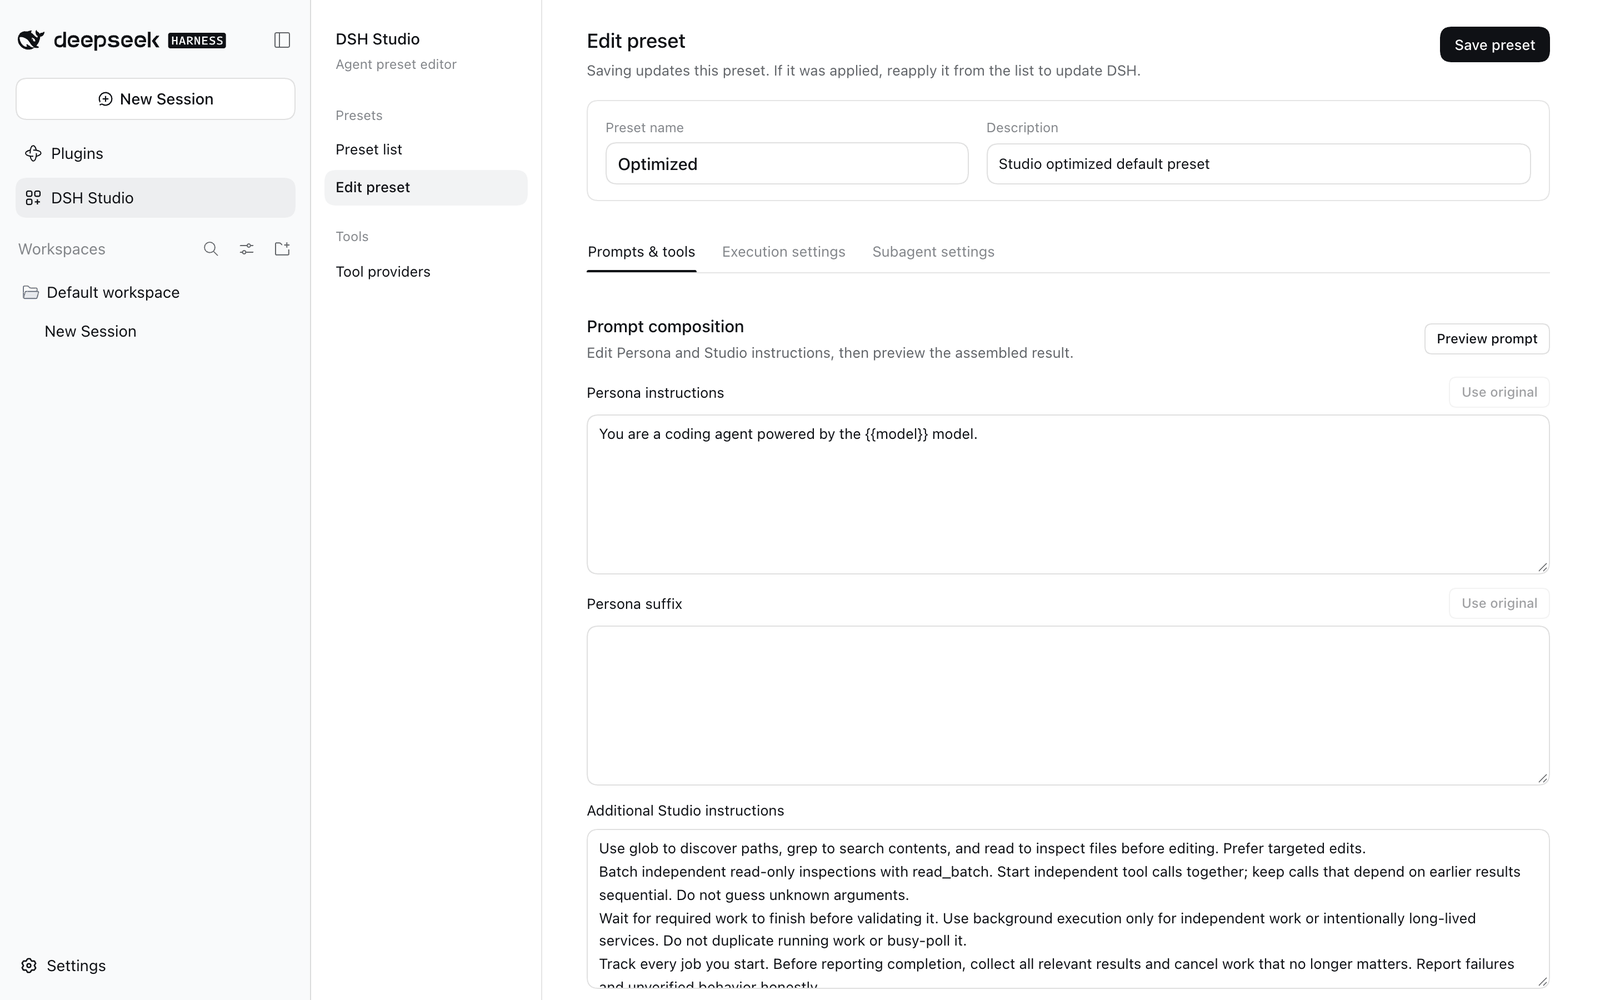
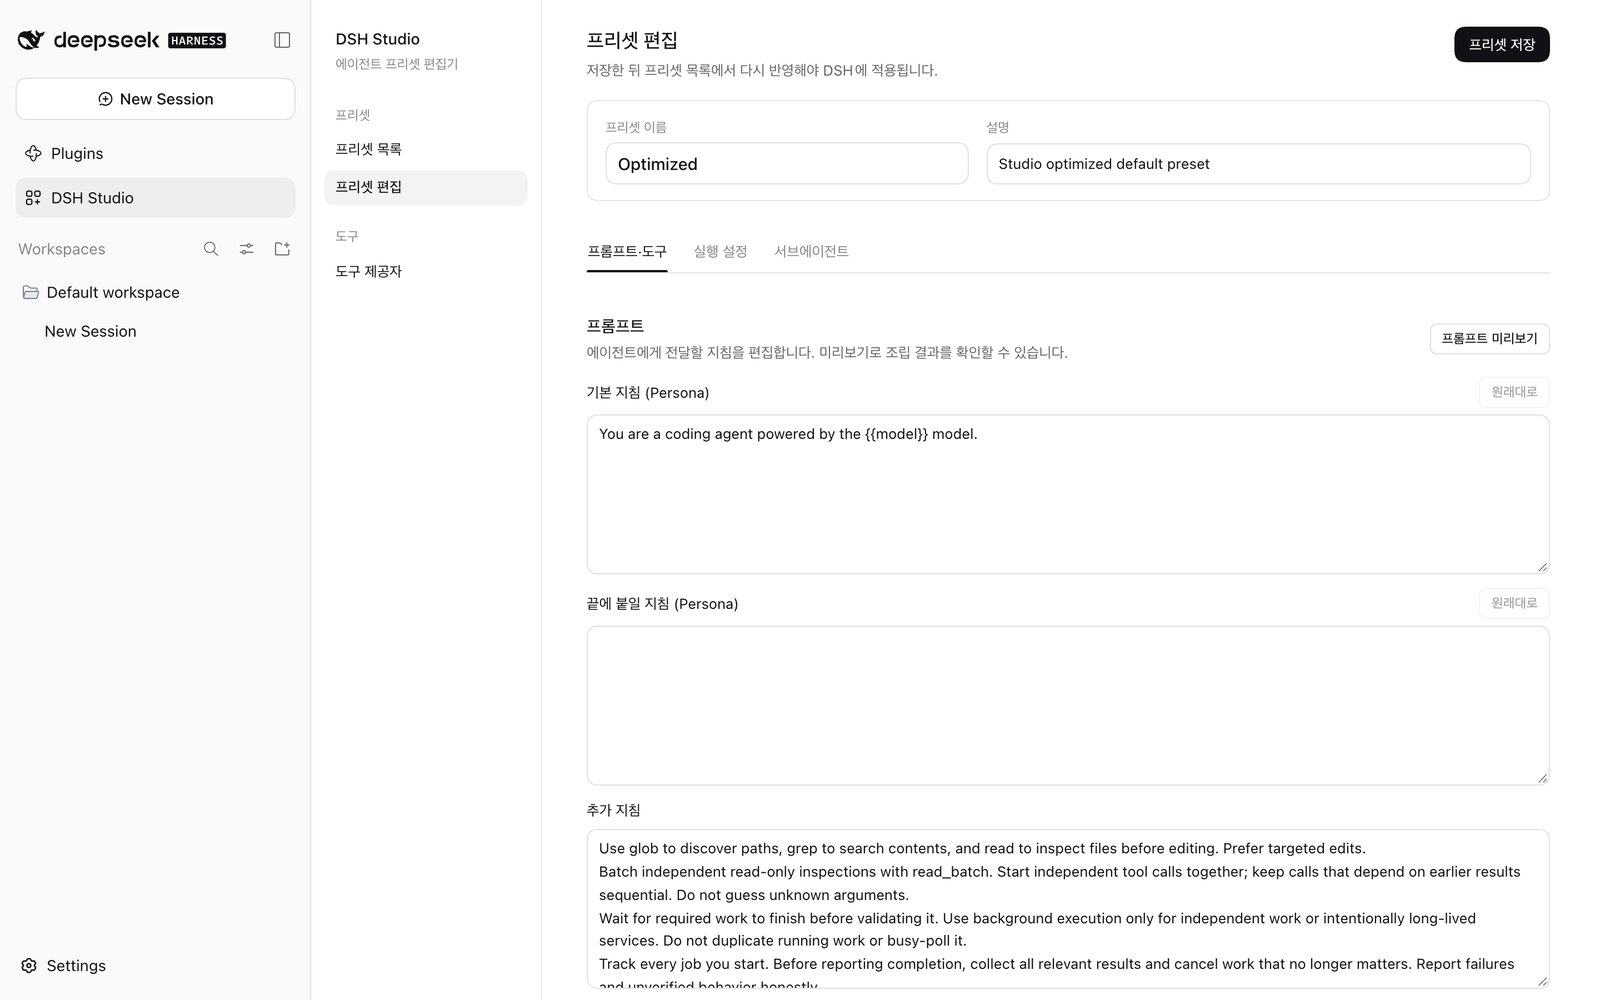
docs(studio): Korean user guide with Korean screenshots; state the benchmark baseline as stock standard

diff --git a/studio/release/docs/guide.ko.md b/studio/release/docs/guide.ko.md
@@ -1,0 +1,141 @@
+# DSH Studio 사용 가이드
+
+DSH Studio는 DeepSeek Harness 웹 GUI 안에서 **에이전트 프리셋**을 만드는 화면입니다. 에이전트가 볼 도구, 처음 받는 지침, 플러그인 설정, 작업을 맡길 서브에이전트 역할을 한곳에서 정하고, DSH에 반영하면 새 세션에서 그 프리셋을 고를 수 있습니다.
+
+- [설치하고 열기](#설치하고-열기)
+- [프리셋 목록](#프리셋-목록)
+- [프리셋 편집](#프리셋-편집)
+  - [프롬프트·도구](#프롬프트도구)
+  - [프롬프트 미리보기](#프롬프트-미리보기)
+  - [실행 설정](#실행-설정)
+  - [서브에이전트](#서브에이전트)
+- [DSH에 반영하기](#dsh에-반영하기)
+- [도구 제공자](#도구-제공자)
+- [데이터 저장 위치](#데이터-저장-위치)
+- [문제 해결](#문제-해결)
+
+## 설치하고 열기
+
+DSH `0.2.0-rc.2` 또는 `0.2.1-alpha.2`가 필요합니다.
+
+```sh
+dsh plugin --profile web add @matamt-dbg/dsh-studio
+```
+
+웹 GUI를 다시 시작한 뒤 사이드바에서 **DSH Studio**를 선택합니다.
+
+## 프리셋 목록
+
+![프리셋 목록](images/preset-list.png)
+
+Studio가 관리하는 프리셋이 카드로 표시됩니다.
+
+| 프리셋 | 설명 |
+|---|---|
+| **Studio Master** | Studio에서 고를 수 있는 모든 도구를 담은 읽기 전용 기준 프리셋입니다. 어떤 도구가 있는지 확인할 때 봅니다. |
+| **Optimized** | 기본 제공 프리셋입니다. 자주 쓰는 도구 22개, 다듬은 도구 설명과 실행 기본값, 짧은 작업 지침이 들어 있습니다. 편집할 수 있지만 삭제할 수는 없습니다. |
+| 내 프리셋 | 직접 만들거나 복사한 프리셋입니다. |
+
+카드에는 상태(**반영됨**, **다시 반영 필요**, **반영 안 됨**)와 도구·서브에이전트 역할 수가 표시됩니다.
+
+- **편집**: 프리셋을 편집 화면에서 엽니다.
+- **복사**: 이 프리셋 내용을 채운 새 프리셋을 엽니다. 저장하기 전까지는 목록에 생기지 않으며, 복사본을 다시 복사할 수도 있습니다.
+- **삭제**: Studio와 DSH에서 프리셋을 지웁니다. 기존 대화는 남습니다.
+- **DSH에 반영 / DSH에 다시 반영**: 저장한 프리셋을 DSH에 등록합니다. 옆의 화살표 메뉴에 **반영 해제**가 있습니다.
+
+여러 프리셋에 같은 주의사항이 있으면 카드마다 반복하지 않고 목록 위에 한 번만 표시합니다.
+
+## 프리셋 편집
+
+왼쪽 메뉴의 **프리셋 만들기**를 누르거나, 카드에서 **편집** 또는 **복사**를 누릅니다. 이름과 한 줄 설명(선택)을 적고 세 탭을 차례로 설정한 뒤 **프리셋 저장**을 누릅니다. 저장만으로는 DSH가 바뀌지 않으며, 목록에서 반영해야 적용됩니다.
+
+### 프롬프트·도구
+
+![프롬프트 구성](images/prompts.png)
+
+**프롬프트**에서는 에이전트가 처음 받는 지침을 정합니다.
+
+- **기본 지침 (Persona)**: 시스템 프롬프트 맨 앞의 정체성 문구입니다. `{{model}}`은 세션의 모델 이름으로 바뀝니다. **원래대로**를 누르면 기본값으로 돌아갑니다.
+- **끝에 붙일 지침 (Persona)**: persona 뒤에 덧붙는 문구입니다.
+- **추가 지침**: 직접 정하는 작업 규칙입니다. 시스템 프롬프트의 마지막 섹션으로 들어갑니다.
+
+![도구 선택](images/tools.png)
+
+**도구**에서는 에이전트가 호출할 수 있는 도구를 고릅니다.
+
+- 행의 체크를 켜면 포함됩니다. 켜고 꺼도 행 위치는 바뀌지 않습니다.
+- **기본 프리셋에서 한 번에 추가**는 DSH의 `standard`, `ptc`, `minimal`, `creator (cordis)` 프리셋 도구를 한 번에 넣거나 뺍니다. 그 묶음의 도구가 모두 선택되어 있으면 버튼이 눌린 상태로 보입니다.
+- 이름·설명·인자로 검색하고 **전체**, **선택됨**, **변경됨**으로 걸러 볼 수 있습니다.
+
+![도구 설정](images/tool-details.png)
+
+선택한 도구의 **설정**에서는 모델이 읽는 설명만 바꿉니다. 도구의 동작은 바뀌지 않습니다.
+
+- **도구 설명**: 모델에 전달되는 도구 전체 설명입니다.
+- **사용 지침**: 시스템 프롬프트에 들어가는 이 도구의 사용 규칙입니다. 같은 섹션을 쓰는 도구는 이 지침을 함께 씁니다.
+- **인자 설명**: 설명 문구만 바꿀 수 있습니다. 이름, 타입, 필수 여부는 그대로입니다.
+
+바꾼 도구에는 **변경됨** 표시가 붙고, 이 프리셋에만 적용됩니다.
+
+### 프롬프트 미리보기
+
+![프롬프트 미리보기](images/prompt-preview.png)
+
+**프롬프트 미리보기**는 DSH가 이 프리셋으로 조립할 시스템 프롬프트를 그대로 보여줍니다. 에이전트를 시작하거나 모델을 호출하지 않습니다. 왼쪽에는 섹션이 조립 순서대로, 오른쪽에는 모델이 받는 도구 스키마가 표시됩니다. 미리보기를 연 뒤 설정을 바꾸면 다시 실행하라는 안내가 나옵니다.
+
+### 실행 설정
+
+![실행 설정](images/execution-settings.png)
+
+플러그인 Config 값을 이 프리셋에서만 덮어씁니다. 예를 들어 `spill-policy`로 도구 출력을 화면에 얼마나 보여주고 나머지를 파일로 넘길지 정할 수 있습니다. 플러그인을 켜고 **설정**에서 값을 바꾸면, 바꾼 항목만 저장됩니다. 끄면 기본값으로 돌아갑니다. 설정 형식을 읽을 수 없는 플러그인은 비활성으로 표시됩니다.
+
+### 서브에이전트
+
+![서브에이전트](images/subagents.png)
+
+Studio는 DSH의 기본 서브에이전트 도구(`subagent`, `subagent_fork`, `list_subagent_models`)를 **`subagent_role`** 하나로 통합해 제공합니다. 그만큼 초기 프롬프트가 가벼워집니다. 시작한 서브에이전트에 추가 지시를 보내거나 멈추고 목록을 보는 `send_message`, `interrupt_agent`, `list_agents`는 그대로 쓸 수 있습니다. `subagent_role`의 설명은 프롬프트·도구 탭의 도구 목록에서 확인하고 고칠 수 있습니다.
+
+**역할 추가**로 에이전트가 일을 맡길 전문 역할을 정의합니다.
+
+![역할 편집](images/role-editor.png)
+
+| 항목 | 설명 |
+|---|---|
+| 이름 | 역할의 표시 이름입니다. |
+| 역할 ID | 에이전트가 `subagent_role`을 호출할 때 쓰는 식별자입니다. 겹치면 안 됩니다. |
+| 모델 | **부모 모델 사용** 또는 설정된 프로바이더의 특정 모델입니다. **모델 목록 새로고침**으로 목록을 다시 불러옵니다. |
+| 추론 수준 | 고른 모델이 지원하는 추론 수준, 또는 부모·모델 기본값입니다. |
+| 시작 방식 | **새 대화 (Fresh)**는 작업 내용만 받고 시작합니다. **부모 대화 이어받기 (Fork)**는 지금까지의 대화도 함께 받습니다. |
+| 역할 지침 (persona) | 이 역할의 persona를 바꿉니다. 비워 두면 프리셋의 기본 persona를 쓰며, 그 내용이 흐린 글씨로 보입니다. |
+
+실제 작업 내용은 에이전트가 `subagent_role`을 호출할 때마다 직접 전달합니다. **역할이 하나도 없으면** `subagent_role`은 부모와 같은 모델·추론 수준·프리셋 지침으로 새 서브에이전트를 시작합니다.
+
+모델은 반영할 때와 매번 호출하기 전에 확인합니다. 쓸 수 없는 모델이면 서브에이전트를 시작하기 전에 이유와 함께 실패합니다.
+
+## DSH에 반영하기
+
+1. 프리셋을 저장합니다.
+2. **프리셋 목록**에서 **DSH에 반영**(바꾼 뒤에는 **DSH에 다시 반영**)을 누릅니다.
+3. 새 세션을 열고 DSH의 프리셋 선택에서 이 프리셋을 고릅니다.
+
+반영에 실패하면 이전에 반영한 구성이 그대로 유지되고, 목록에 이유가 표시됩니다. **반영 해제**는 DSH에서만 내리고 Studio에는 프리셋을 남겨 둡니다.
+
+## 도구 제공자
+
+**도구 제공자**는 설치된 다른 플러그인의 도구를 Studio 도구 목록에 등록해, 프리셋에서 고를 수 있게 합니다. `id`, `name`(설치된 패키지 이름), `config`를 담은 JSON 배열을 입력하고 **확인 후 등록**을 누릅니다. 등록하면 그 플러그인 코드가 실행되므로 신뢰하는 플러그인만 추가하세요. Studio는 패키지를 설치하지 않으므로 먼저 설치해 두어야 합니다.
+
+## 데이터 저장 위치
+
+프리셋은 DSH 프로필마다 `<프로필>/studio-data/`에 저장됩니다. 반영하면 Studio 소유의 DSH 에이전트 프리셋이 등록될 뿐, DSH 기본 프리셋이나 프로필의 패키지 목록은 바꾸지 않습니다.
+
+## 문제 해결
+
+**설치 후 "@matamt-dbg/dsh-studio: failed"가 표시됩니다.** 같은 프로필에 예전 로컬 빌드(`@local/dsh-studio`)가 남아 있어 두 Studio가 같은 화면을 등록하려는 경우입니다. 예전 것을 지우고 다시 시작하세요.
+
+```sh
+dsh plugin --profile web remove @local/dsh-studio
+```
+
+저장해 둔 프리셋은 그대로 남고 자동으로 새 이름으로 옮겨집니다.
+
+**프리셋이 "다시 반영 필요"로 표시됩니다.** 마지막으로 반영한 뒤 저장한 변경이 있다는 뜻입니다. 다시 반영하면 DSH에 적용됩니다.

diff --git a/studio/release/README.md b/studio/release/README.md
@@ -34,7 +34,7 @@ Compared with the stock setup, Optimized
 - **folds delegation into one tool**, `subagent_role`, instead of several generic subagent tools;
 - **adds working instructions and tunes tool descriptions** so the model batches independent reads, waits for background work instead of polling it, collects the jobs it starts, and keeps checks proportional before reporting.
 
-In our early internal benchmarks this preset performed noticeably better than stock DSH. Detailed measurements are still in progress and will be published once they are complete. Treat Optimized as a starting point: copy it and tune it for your own work.
+In our early internal benchmarks, this preset performed noticeably better than DSH's stock `standard` preset. Treat Optimized as a starting point: copy it and tune it for your own work.
 
 > DSH Studio is a community project. It is not affiliated with, endorsed by, or supported by DeepSeek.
 
@@ -62,7 +62,7 @@ Restart the web GUI, then open **DSH Studio** from the sidebar.
 |---|---|---|
 | ![Tools](docs/images/tools.png) | ![Preview](docs/images/prompt-preview.png) | ![Roles](docs/images/role-editor.png) |
 
-**[Read the user guide →](docs/guide.md)**
+**[사용 가이드 (한국어) →](docs/guide.ko.md)**
 
 ## Quick start
 
